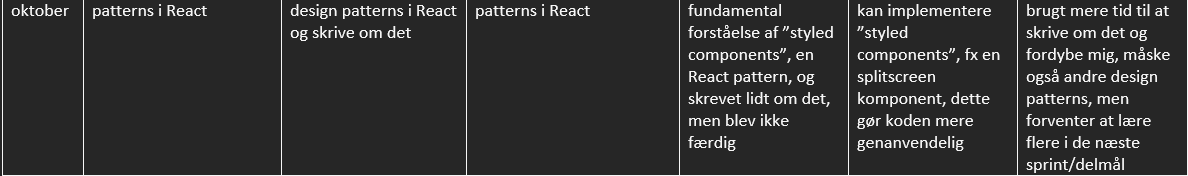
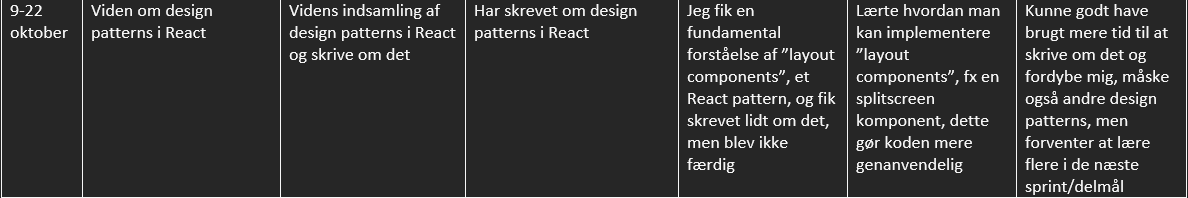
partgoals6

diff --git a/_posts/2023-08-16-partgoals6.html b/_posts/2023-08-16-partgoals6.html
@@ -1,0 +1,75 @@
+---
+layout: post
+title: "Delmål Uge 43-44"
+subtitle: "Læringsplan, hvor man kan se, hvad jeg har tænkt at arbejde med de næste to uger"
+date: 2023-10-23 4:45:13 -0400
+background: "/img/posts/kanban.png"
+---
+
+<p>
+  Delmål 1: Jeg vil gerne opnå viden om React design patterns, har allerede lært
+  om en, vil gerne lære om en mere denne cyklus. Jeg vil opnå dette ved at
+  skrive om og implementere design patterns i React, bla. controlled vs
+  uncontrolled components og custom hooks hvis jeg har tid til det.
+</p>
+<!-- <p>
+
+</p>
+<br /> -->
+<p>
+  Delmål 2: Opnå viden om populære ml biblioteker og lære om et bestemt library,
+  ved at skifte fra det nuværende ml kode til et bibliotek, såsom Keras, PyTorch
+  eller TensorFlow.
+</p>
+<!-- <p>
+</p>
+<br /> -->
+<p>
+  Delmål 3: Opnå viden om bedste praksis for fejlhåndtering i SPA/React og
+  brugeroplevelse mht. fejlhåndtering. Jeg vil opnå dette ved at redigere og
+  tilføje til det nuværende kode mht. fejlhåndtering, og måske skrive lidt om
+  det.
+</p>
+<!-- <p>
+</p>
+<br /> -->
+<p>
+  Delmål 4: Opnå viden og overblik over transaktioner og hvordan data gemmes i
+  database mht. SPA, ved at lave en liste om CRUD-transaktionerne/lagring af
+  data fra SPA, både for overblik til mig selv, men også til at koordinere med
+  andre gruppemedlemmer. Så kommer nok til at vise denne liste til de andre
+  gruppemedlemmer.
+</p>
+<!-- <p>
+</p>
+<br /> -->
+<p>
+  Delmål 5: Mht. overordnet SPA: opnå mere viden om hvordan man bedst får en
+  komponent som fx opret/create til at være mere genanvendelig til også at
+  redigere. Jeg vil også gerne få klargjort usikkerheder, omkring begrundelser
+  ved hvert lækagepunkt, fra product owner Nolek til næste møde. Jeg vil gerne
+  lave videre på begrundelser til sniffing-points og lave opret/create
+  testobjekt komponent om, til også at håndtere redigering/edit af testobjektets
+  information.
+</p>
+<!-- <p>
+</p>
+<br /> -->
+<p>
+  Delmål 6: Opnå mere viden om optimizers, ved at færdiggøre læring om
+  optimizers i ml, jeg mangler ikke meget.
+</p>
+<!-- <p>
+</p>
+<br /> -->
+<p>
+  Delmål 7: Opnå et bedre overblik over progression af valgfag og hvordan man
+  bedst formidler dette, ved at lave diagrammer til præsentation af progression
+  i valgfag til PO
+</p>
+<!-- <p>
+</p>
+<br /> -->
+
+<img src="/img/posts/delmål6.png" style="max-width: 100%" />
+<img src="/img/posts/delmål6part2.png" style="max-width: 100%" />

diff --git a/_posts/2023-08-16-partgoals5.html b/_posts/2023-08-16-partgoals5.html
@@ -13,11 +13,13 @@ background: "/img/posts/kanban.png"
 </p>
 <p>
   Jeg fik lavet visning af testobjekt stort set færdig, der kommer nok
-  tilføjelser senere, og valg af testobjekt fra en liste. Jeg Lærte lidt om
-  ”styled components”, og fik mere viden om design af kode i React og en bedre
-  forståelse af koden i det hele taget. Jeg kunne godt have brugt min viden om
-  ”styled components” tidligere, fordi jeg nu ikke kan nå at refactor alt koden
-  til at inkludere dette design pattern.
+  tilføjelser senere. Fik lavet valg af testobjekt fra en liste. Jeg Lærte
+  blandt andet lidt om ”styled components”, og fik mere viden om design af kode
+  i React og en bedre forståelse af koden i det hele taget. Kunne godt have
+  brugt min nye viden til refactoring af koden, men kan højest sandsynligt ikke
+  nå at refactor alt koden. Jeg fik vist siden til PO og fik feedback jeg kan
+  bruge, men har stadig nogle spørgsmål til PO, som jeg tænker jeg tager op til
+  næste møde.
 </p>
 <br />
 <p>
@@ -48,9 +50,9 @@ background: "/img/posts/kanban.png"
   ved at skrive om det
 </p>
 <p>
-  Jeg fik en fundamental forståelse af ”styled components”, en React pattern, og
-  skrevet lidt om det, men blev ikke færdig. Jeg lærte også hvordan man kan
-  implementere ”styled components”, fx en splitscreen komponent, dette gør koden
+  Jeg fik en fundamental forståelse af "layout components”, et React pattern, og
+  fik skrevet lidt om det, men blev ikke færdig. Jeg lærte også hvordan man kan
+  implementere ”layout components”, fx en splitscreen komponent, dette gør koden
   mere genanvendelig. Jeg kunne godt have brugt mere tid til at skrive om det og
   fordybe mig, måske også omkring andre design patterns, men forventer at lære
   flere i de næste sprint/delmål.
